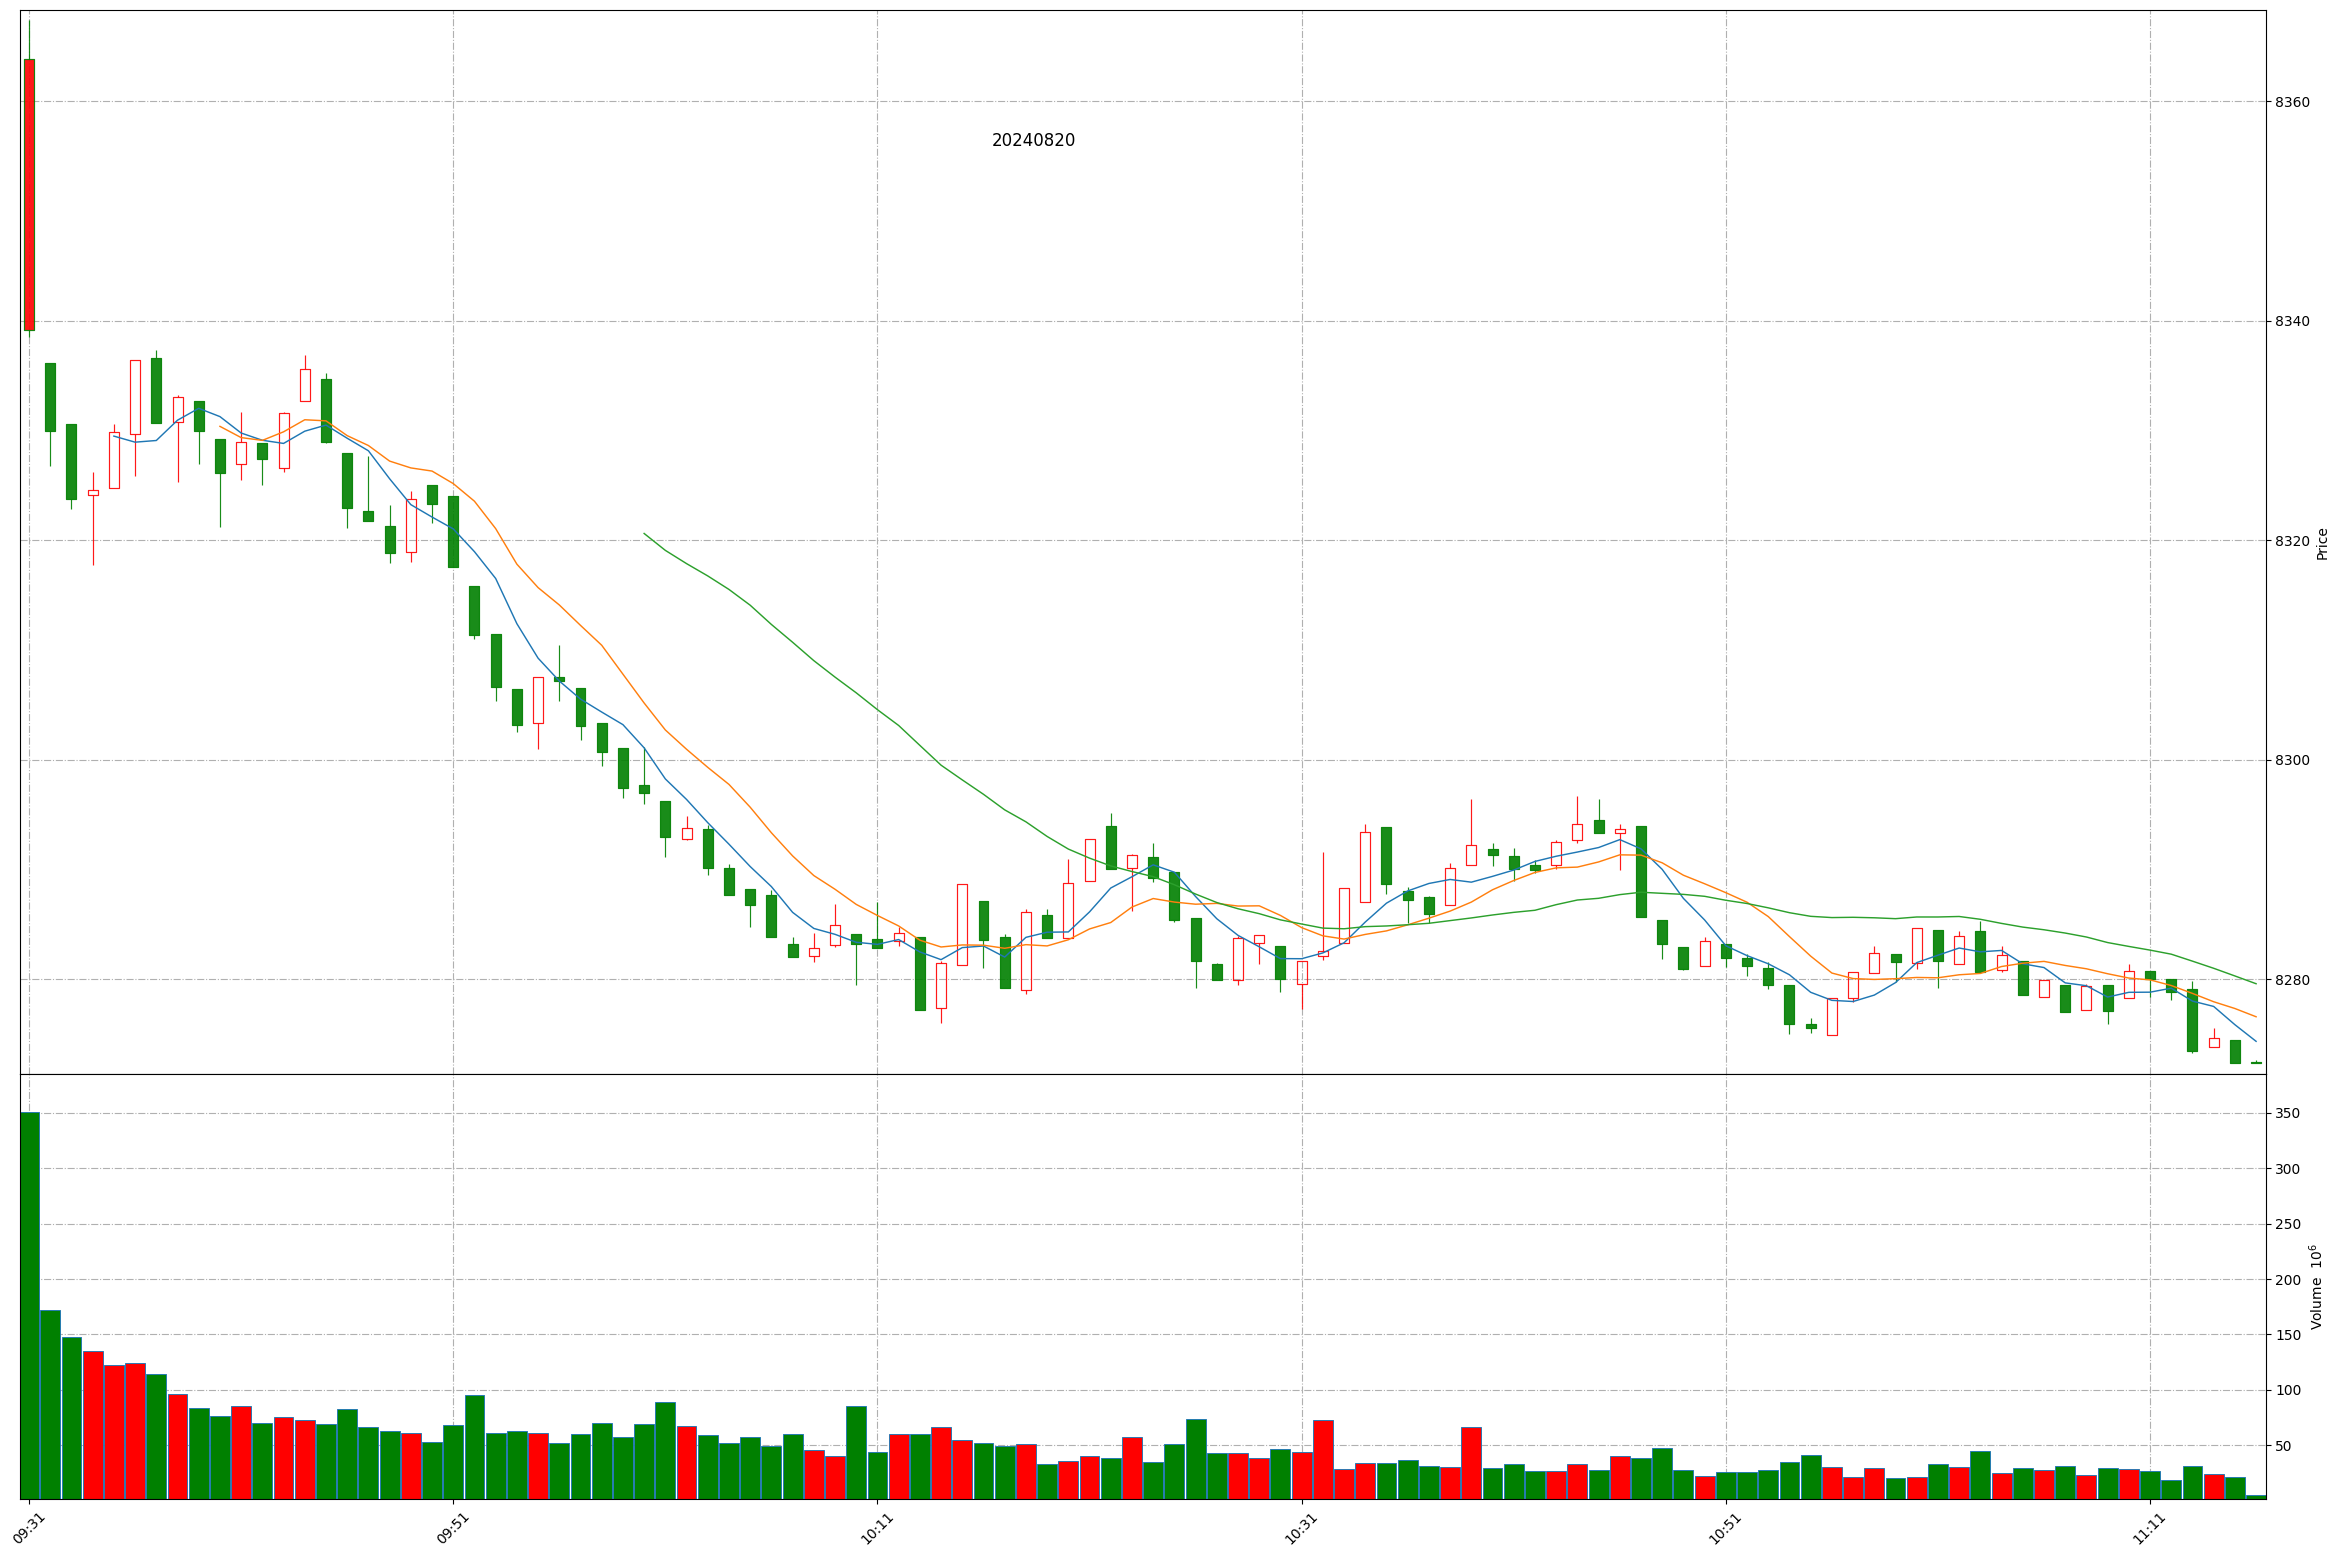
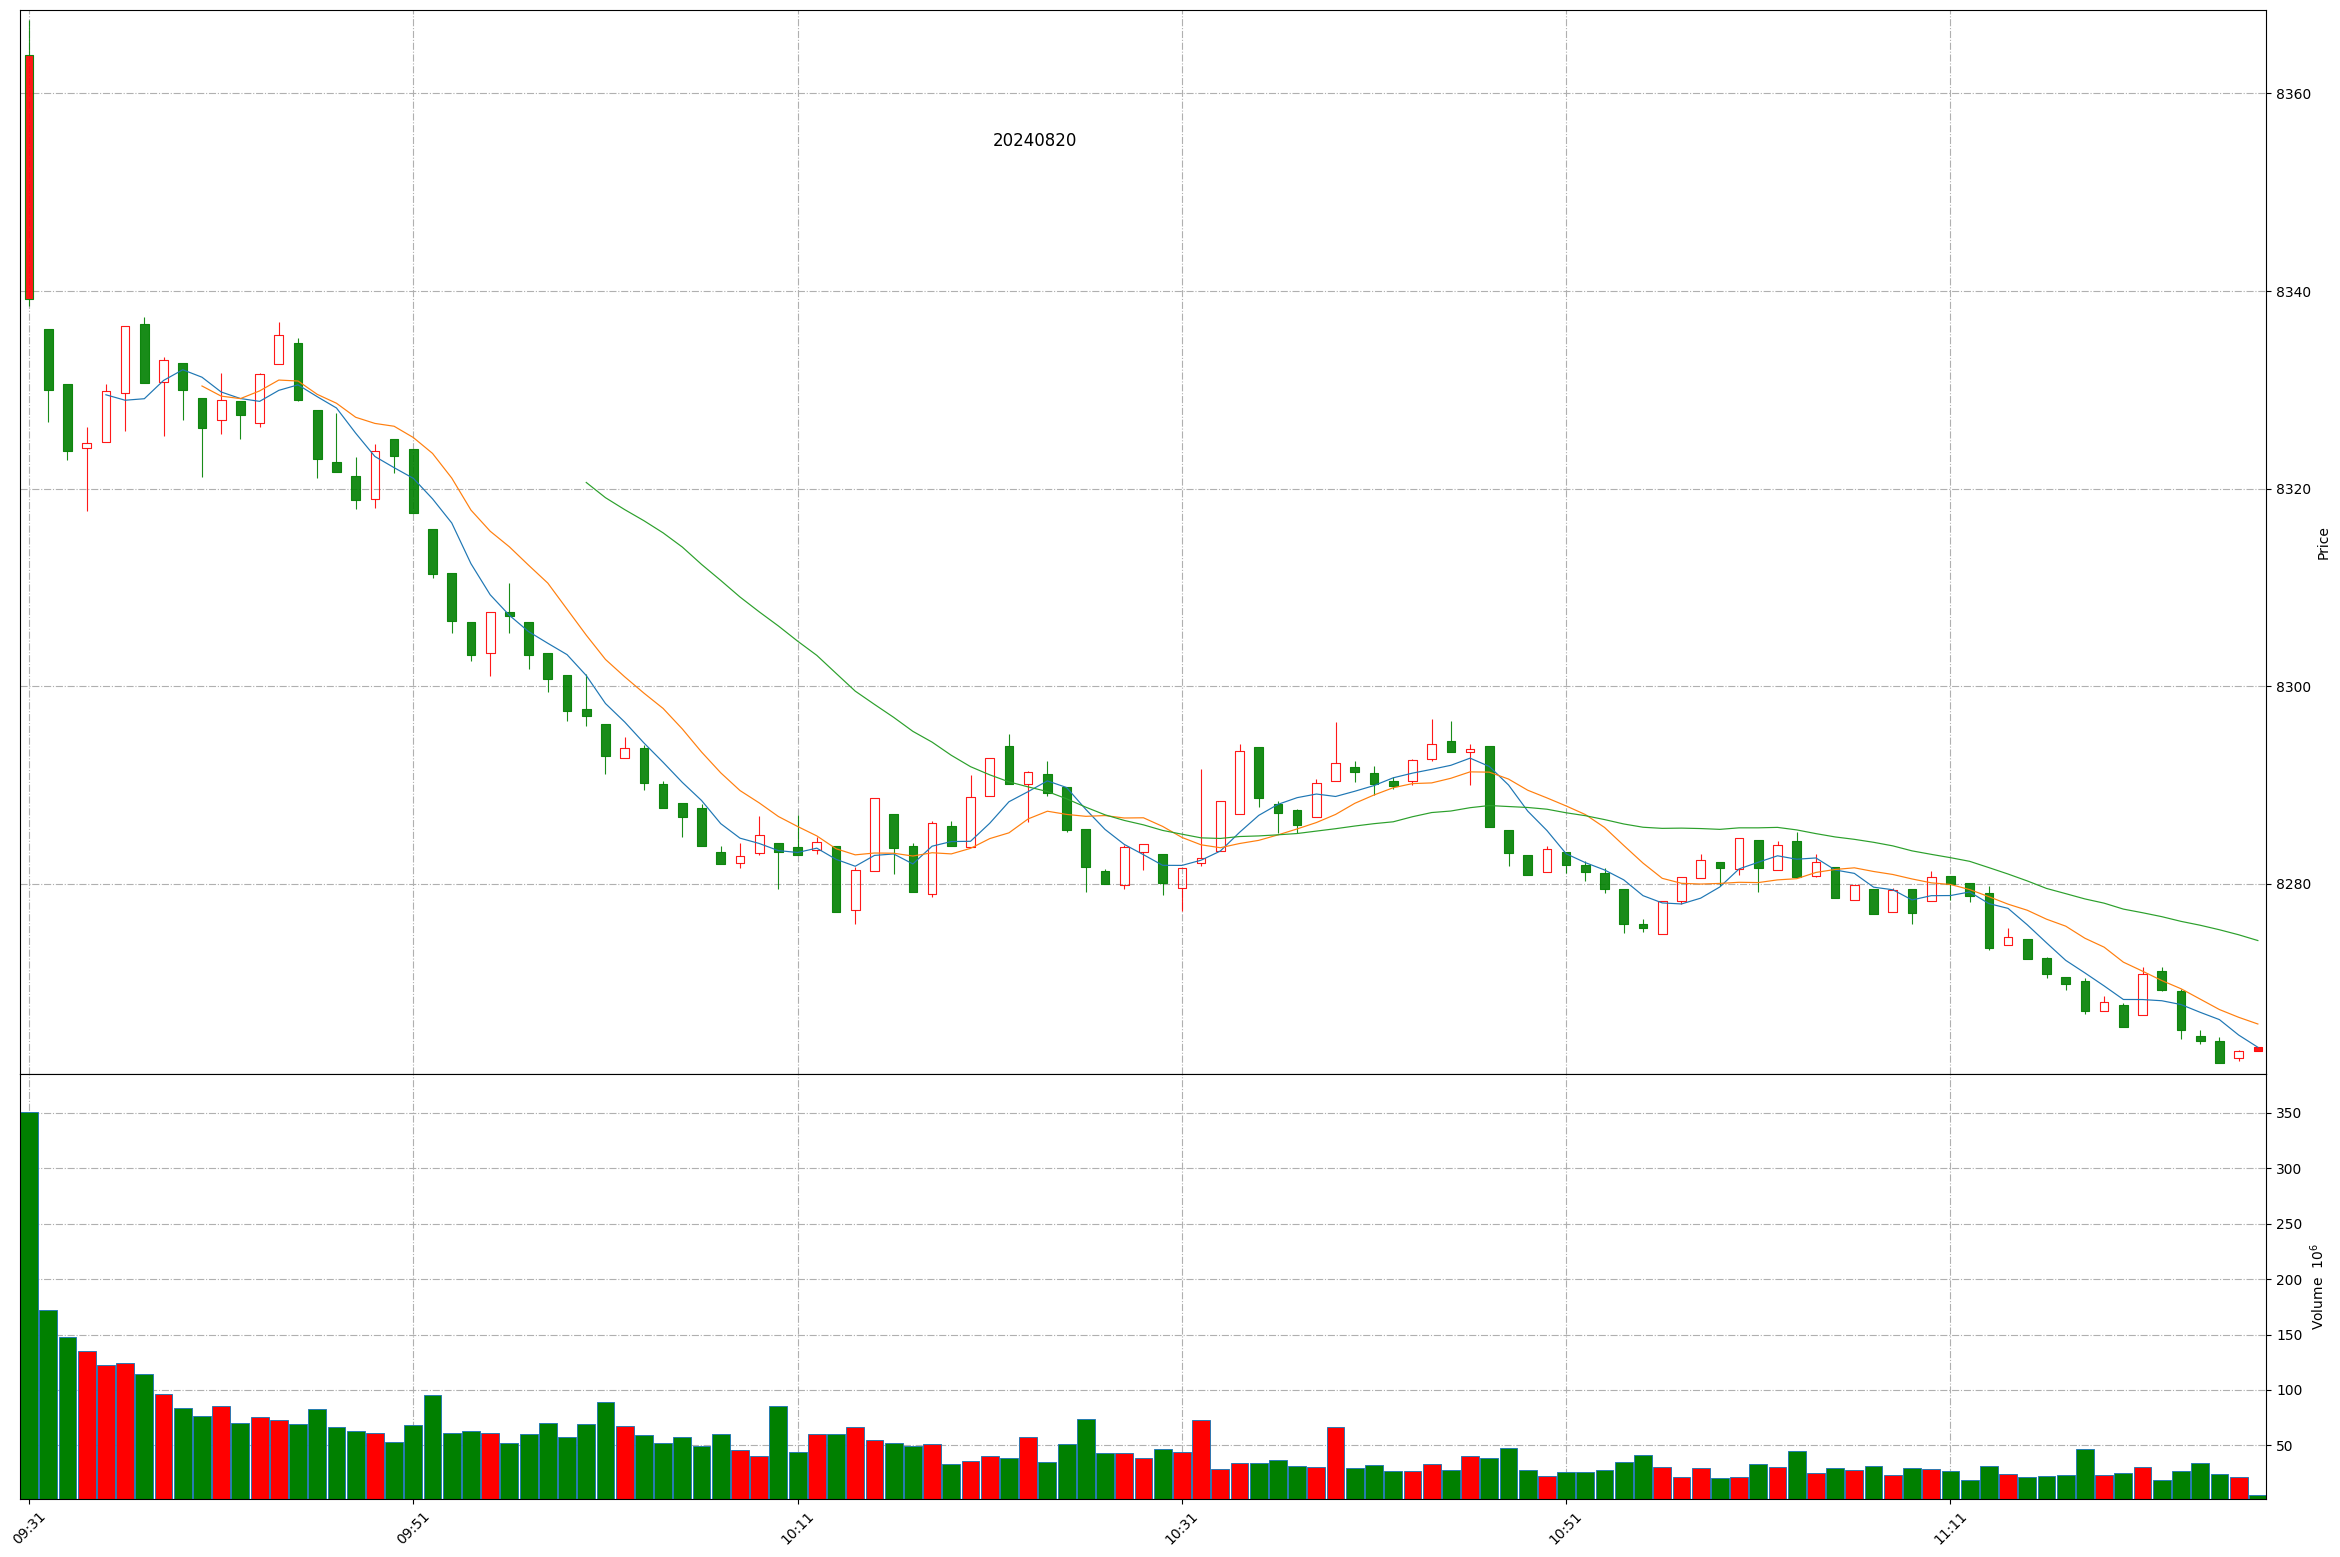
Github action update at 2024-08-20 11:26:24.

diff --git a/README.md b/README.md
@@ -1,11 +1,11 @@
 
 # Daily-A-share-market-quotes 每日 A 股指数（5min 更新）- 20240820
 
-### 上证指数 20240820 11:15
+### 上证指数 20240820 11:26
 ![](./fig/2024/8/20240820-sh000001.png)
 
-### 深证成指 20240820 11:15
+### 深证成指 20240820 11:26
 ![](./fig/2024/8/20240820-sz399001.png)
 
-### 北证50 20240820 11:15
+### 北证50 20240820 11:26
 ![](./fig/2024/8/20240820-bj899050.png)
